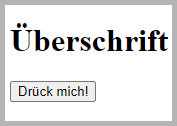
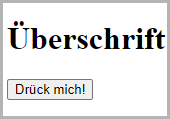
corrected groupe chapters

Changed region(s): [[0.0, 0.0252, 1.0, 0.9832]]

diff --git a/chapters/implementierung/ldehner.tex b/chapters/implementierung/ldehner.tex
@@ -4,7 +4,7 @@
 In diesem Kapitel wird die Implementierung des Frontends von \textit{Refundable} erläutert. Dabei wird als Erstes die Vorbereitung im \autoref{chapter:implementierung-frontend-vorbereitung} erklärt. Danach werden die einzelnen Komponenten im \autoref{chapter:implementierung-frontend-komponenten} der Website aufgezeigt und vorgeführt.
 \subsection{Vorbereitung}
 \label{chapter:implementierung-frontend-vorbereitung}
-Wie im \autoref{chapter:study-frontend} und \autoref{chapter:study-datenschnittstelle} festgelegt wird im Frontend \textit{Bootstrap} in Verbindung mit \textit{VueJS} verwendet. Zu aller erst muss daher \textit{VueJS} auf dem Computer, auf dem das Projekt erstellt wird, installiert werden. Dies geschieht auf Windows über den Node Packet Manager (NPM) \cite{vue-install}. Der Befehl um \textit{VueJS} zu installieren schaut wie folgt aus:
+Wie im \autoref{chapter:study-frontend} und \autoref{chapter:study-datenschnittstelle} festgelegt wird im Frontend \textit{Bootstrap} in Verbindung mit \textit{VueJS} verwendet. Zu aller erst muss daher \textit{VueJS} auf dem Computer, auf dem das Projekt erstellt wird, installiert werden. Dies geschieht auf Windows über den Node Packet Manager (NPM) \cite{vue-install}. Der Befehl um \textit{VueJS} zu installieren sieht wie folgt aus:
 \begin{code}{bash}
 	npm install -g @vue/cli
 \end{code}
@@ -55,7 +55,7 @@ Diese dienen dazu, dass der Hauptcontainer, als auch die Hauptreihe der Website,
 \newpage
 \subsubsection{Login-Seite}
 \label{chapter:implementierung-frontend-komponenten-login}
-Die Login-Seite sollte sehr schlicht gehalten werden und sofort verstamden werden können. Da das Tool \textit{Refundable} nur von Lehrern des TGMs verwendet werden soll, wurde in der Loginmaske die E-Mail-Endung \enquote{@tgm.ac.at} vordefiniert. Außerdem soll dem Aufrufer der Website sofort klar machen, worum es sich bei dieser Website handelt und haben daher den Projektnamen \textit{Refundable}, als auch unseren Slogan auf der Seite platziert. Des weiteren war aufgrund der DSGVO eine Meldung zu realisieren, die den Benutzer darüber informiert, dass Cookies verwendet werden. Falls diese Meldung nicht akzeptiert wird und man sich anzumelden möchte, wird eine Fehlermeldung dargestellt. Diese Meldung wird jedoch dynamisch mit \textit{VueJS} erstellt und nicht direkt mittels \textit{Bootstrap}. In der Umsetzung schaut die Login-Seite wie folgt aus (\autoref{fig:login}):
+Die Login-Seite sollte sehr schlicht gehalten werden und sofort verstanden werden können. Da das Tool \textit{Refundable} nur von Lehrern des TGMs verwendet werden soll, wurde in der Login-Maske die E-Mail-Endung \enquote{@tgm.ac.at} vordefiniert. Außerdem soll dem Aufrufer der Website sofort klar sein, worum es sich bei dieser Website handelt und haben daher den Projektnamen \textit{Refundable}, als auch unseren Slogan auf der Seite platziert. Des weiteren war aufgrund der DSGVO eine Meldung zu realisieren, die den Benutzer darüber informiert, dass Cookies verwendet werden. Falls diese Meldung nicht akzeptiert wird und man sich anmelden möchte, wird eine Fehlermeldung dargestellt. Diese Meldung wird jedoch dynamisch mit \textit{VueJS} erstellt und nicht direkt mittels \textit{Bootstrap}. In der Umsetzung sieht die Login-Seite wie folgt aus (\autoref{fig:login}):
 \begin{figure}[H]
 	\centering
 	\includegraphics[width=1\linewidth]{images/ldehner_implementierung/login}
@@ -234,7 +234,7 @@ Die Meldung, dass Cookies benutzt werden, sollte schlicht und einfach sein. Es w
 \newpage
 \subsubsection{Startseite}
 \label{chapter:implementierung-frontend-komponenten-startseite}
-Die Startseite sollte so intuitiv und übersichtlich wie möglich sein. Deswegen wurde ein \enquote{Drei Spalten Design} umgesetzt. In der ersten Spalte befinden sich alle wichtigen Funktionen - drei Knöpfe, zum Erstellen von neuen Anträgen, um alle aktiven Anträge anzuzeigen und um alle Anträge zu betrachten, die man jemals gestellt hat. In der 2. Spalte befindet sich das Logo, eine Illustration für das Dashboard und ein Knopf zum Ausloggen. Falls man sich mit einm Administratorkonto anmeldet, wird hier ebenfalls ein Knopf, zum Wechseln in die Administratoransicht angezeigt. In der dritten Spalte werden Neuigkeiten zu den Anträgen des Benutzers angezeigt. Klickt man auf eine Neuigkeit, wird man zu dem jeweiligen Antrag weitergeleitet. \autoref{fig:dashboard} zeigt die Umsetzung der Startseite.
+Die Startseite sollte so intuitiv und übersichtlich wie möglich sein. Deswegen wurde ein \enquote{Drei Spalten Design} umgesetzt. In der ersten Spalte befinden sich alle wichtigen Funktionen - drei Knöpfe, zum Erstellen von neuen Anträgen, um alle aktiven Anträge anzuzeigen und um alle Anträge zu betrachten, die jemals gestellt wurden. In der 2. Spalte befindet sich das Logo, eine Illustration für das Dashboard und ein Knopf zum Ausloggen. Falls man sich mit einem Administratorkonto anmeldet, wird hier ebenfalls ein Knopf, zum Wechseln in die Administratoransicht angezeigt. In der dritten Spalte werden Neuigkeiten zu den Anträgen des Benutzers angezeigt. Klickt man auf eine Neuigkeit, wird man zu dem jeweiligen Antrag weitergeleitet. \autoref{fig:dashboard} zeigt die Umsetzung der Startseite.
 \begin{figure}[H]
 	\centering
 	\includegraphics[width=1\linewidth]{images/ldehner_implementierung/dashboard}
@@ -371,7 +371,7 @@ Wie bereits erwähnt, ist die mobile Ansicht sehr schlicht gehalten, damit sie n
 	\label{list:startmobile} ~\\
 \paragraph{Neuigkeiten-Element}
 ~\\
-Die Neuigkeiten-Elemente sind mit einer Illustration bestückt, die den momentanen Status des jeweiligen Antrags beschreiben soll. Außerdem wird ein Titel der Neuigkeit mitgegeben, die zum Beispiel \enquote{Antrag X abgelehnt} heißen könnte. Etwas mehr Details werden noch in einem Beschreibungsfeld mitgegeben, das wegen der Übersichtlichkeit nur auf Desktopgeräten sichtbar ist.
+Die Neuigkeiten-Elemente sind mit einer Illustration bestückt, die den momentanen Status des jeweiligen Antrags beschreiben soll. Außerdem wird ein Titel der Neuigkeit mitgegeben, die zum Beispiel \enquote{Antrag X abgelehnt} heißen könnte. Etwas mehr Details werden noch in einem Beschreibungsfeld mitgegeben, das in Hinblick auf die Übersichtlichkeit nur auf Desktopgeräten sichtbar ist.
 \begin{code}{html}
 	<b-row align-v="center">
 	<b-col cols="2">
@@ -591,7 +591,7 @@ Das Formular der Reisekostenabrechnung fordert sehr viele verschiedene Werte von
 In \autoref{fig:reiserechnungsite} wurden Elemente verwendet, die uns im Gegensatz zu normalen Eingaben nicht bekannt sind, einerseits Tabellen, andererseits die Dateiauswahl.
 \paragraph{Dateiauswahl}
 ~\\
-Wie auch bei den anderen Elementen der Formulare, wie zum Beispiel bei dem \textit{Timepicker}, hat \textit{Bootstrap} ein veorgefertigtes Element für die Dateiauswahl. 
+Wie auch bei den anderen Elementen der Formulare, wie zum Beispiel bei dem \textit{Timepicker}, hat \textit{Bootstrap} ein vorgefertigtes Element für die Dateiauswahl. 
 \begin{code}{html}
 	<!-- Belege Input -->
 	<b-form-group
@@ -676,7 +676,7 @@ Um die oben genannten Daten in einer geordneten Liste zu sehen, kann der Lehrer 
 \end{figure}
 \paragraph{Such-Funktion}
 ~\\
-Die Erstellung der Suchfunktion wurde wieder essentiell von den \textit{BootstrapVue} Komponenten unterstützt. Es mussten eine Eingabegruppe erstellt werden, die ein Eingabefeld mit dem Typ \textit{\enquote{search}} hat. Um eine Eingabe schneller zu löschen wurde noch ein Knopf hinzugefügt, der erscheint, sobald man etwas eintippt. Durch die gute Integration von \textit{Bootstrap} in \textit{VueJS} war die Implementierung der Suchfunktion für die Tabelle reibungslos. Die Vergabe der Funktionalität der Such-Funktion wurde im Backend/Frontend Teil umgesetzt.
+Die Erstellung der Suchfunktion wurde wieder essentiell von den \textit{BootstrapVue} Komponenten unterstützt. Es mussten eine Eingabegruppe erstellt werden, die ein Eingabefeld mit dem Typ \textit{\enquote{search}} hat. Um eine Eingabe schneller zu löschen wurde noch ein Knopf hinzugefügt, dieser erscheint, sobald man etwas eintippt. Durch die gute Integration von \textit{Bootstrap} in \textit{VueJS} war die Implementierung der Suchfunktion für die Tabelle reibungslos. Die Vergabe der Funktionalität der Such-Funktion wurde im Backend/Frontend Teil umgesetzt.
 \begin{code}{html}
 	<!-- Such Element -->
     <b-row align-h="center" style="margin-top: 1rem; margin-bottom: 2rem">
@@ -709,9 +709,9 @@ Die Erstellung der Suchfunktion wurde wieder essentiell von den \textit{Bootstra
 \end{code}
 \captionof{listing}{Anträge Suchfunktion Code}
 	\label{list:antragsearchcode} ~\\
-\paragraph{Filterbare Tabelle}
+\paragraph{Filtrierbare Tabelle}
 ~\\
-Die Aktivierung der filterbaren Tabelle ist mittels \textit{BootstrapVue} möglich. Dazu wurden folgende drei Festlegungen im \textit{\enquote{b-table}} Element hinzufügen:
+Die Aktivierung der filtrierbaren Tabelle ist mittels \textit{BootstrapVue} möglich. Dazu wurden folgende drei Festlegungen im \textit{\enquote{b-table}} Element hinzugefügt:
 \begin{code}{html}
 	<b-table
 		...
@@ -836,7 +836,7 @@ Ein Schritt der Fortschrittsanzeige besteht aus einem \enquote{div}, in dem sich
 
 \paragraph{Dokumente anzeigen}
 ~\\
-Die verschiedenen Dokumente, die zu einem gewissen Antrag angehören, werden in einer Tabelle gelistet. Falls der Nutzer auf den \enquote{Bearbeitung öffnen} Knopf drückt, wird der Tabelle eine weitere Reihe hinzugefügt, die alle Informationen zu dem jeweiligen Antrag beinhaltet. Mittels \textit{VueJS} wurden die bestehenden Formulare (hier als Beispiel einen Schulveranstaltungsantrag), in der Tabelle eingebunden und die Eingabefelder über die Datenschnittstelle (\autoref{chapter:implementierung-datenschnittstelle}) mit Daten befüllt.
+Die verschiedenen Dokumente, die zu einem gewissen Antrag gehören, werden in einer Tabelle gelistet. Falls der Nutzer auf den \enquote{Bearbeitung öffnen} Knopf drückt, wird der Tabelle eine weitere Reihe hinzugefügt, die alle Informationen zu dem jeweiligen Antrag beinhaltet. Mittels \textit{VueJS} wurden die bestehenden Formulare (hier als Beispiel ein Schulveranstaltungsantrag), in der Tabelle eingebunden und die Eingabefelder über die Datenschnittstelle (\autoref{chapter:implementierung-datenschnittstelle}) mit Daten befüllt.
 \begin{code}{html}
 	<template #row-details="row">
         <b-card>
@@ -920,7 +920,7 @@ Die farbig hinterlegten Elemente heißen \enquote{badges} und können wie folgt 
 \newpage
 \paragraph{Administrator Antragsansicht}
 ~\\
-Die Administrator Antragsansicht schaut gleich aus, wie die Ansicht der normalen Benutzer - mit einem Unterschied. Die Administratoren haben nicht die Funktionen \enquote{Speichern} und \enquote{Antrag schließen}, sondern \enquote{Antrag annehmen} und \enquote{Antrag ablehnen}. Falls der Antrag abgelehnt wird, taucht wieder eine Sicherheitsmeldung auf. Hier muss der Administrator eine Begründung, für die Ablehnung angeben. 
+Die Administrator Antragsansicht sieht gleich aus, wie die Ansicht der normalen Benutzer - mit einem Unterschied. Die Administratoren haben nicht die Funktionen \enquote{Speichern} und \enquote{Antrag schließen}, sondern \enquote{Antrag annehmen} und \enquote{Antrag ablehnen}. Falls der Antrag abgelehnt wird, taucht wieder eine Sicherheitsmeldung auf. Hier muss der Administrator eine Begründung, für die Ablehnung angeben. 
 \begin{figure}[H]
 	\centering
 	\includegraphics[width=0.6\linewidth]{images/ldehner_implementierung/admin_antrag_schiessen}
@@ -971,9 +971,9 @@ Im Code wird dieses Eingabefeld im \enquote{Modal} wie folgt erstellt:
 \captionof{listing}{Antrag ablehnen Code}
 	\label{list:badgebsp} ~\\
 \newpage
-\subsubsection{Seite nicht Gefunden}
+\subsubsection{Seite nicht gefunden}
 \label{chapter:implementierung-frontend-komponenten-notfound}
-Falls der momentane Nutzer von \textit{Refundable} eine ungültige URL aufrufen möchte, wird dieser sofort informiert, dass er etwas falsch gemacht hat. Desweiteren wird dem Nutzer direkt eine Lösung vorgeschlaen, wie er dieses Problem beheben kann. Um dem Nutzer zu visualisieren, dass der \enquote{Website} Knopf die richtige Wahl ist, haben wir ihn in einem Grün hervorgehoben. Außerdem wird dem Aufrufer, der Seite mit schimmernden grauen Boxen, die einen \enquote{Lade-Zustand} visualisieren sollen gezeigt, dass die Seite, die der Nutzer aufrufen wollte nicht richtig lädt.
+Falls der momentane Nutzer von \textit{Refundable} eine ungültige URL aufrufen möchte, wird dieser sofort informiert, dass er etwas falsch gemacht hat. Desweiteren wird dem Nutzer direkt eine Lösung vorgeschlagen, wie er dieses Problem beheben kann. Um dem Nutzer zu visualisieren, dass der \enquote{Website} Knopf die richtige Wahl ist, haben wir ihn in einem Grün hervorgehoben. Außerdem wird dem Aufrufer, der Seite mit schimmernden grauen Boxen, die einen \enquote{Lade-Zustand} visualisieren sollen gezeigt, dass die Seite, die der Nutzer aufrufen wollte nicht richtig lädt.
 \begin{figure}[H]
 	\centering
 	\includegraphics[width=1\linewidth]{images/ldehner_implementierung/notfound}

diff --git a/chapters/studie/ldehner.tex b/chapters/studie/ldehner.tex
@@ -56,7 +56,7 @@
 		Wenn man die Datei nun im Browser öffnet, sieht dies wie folgt aus:
 		\begin{figure}[H]
 			\centering
-			\includegraphics[width=0.3\linewidth]{images/ldehner_study/html1}
+			\includegraphics[width=0.2\linewidth]{images/ldehner_study/html1}
 			\caption[HTML Beispielseite]{Beispiel einer HTML Seite mit einer Überschrift und einem Button}
 			\label{fig:htmlbsp}
 		\end{figure}
@@ -165,7 +165,7 @@
 	Zum Vergleich werden vier sehr verbreitete und geschätzte Frameworks herangezogen:
 		\subsubsection{Bootstrap}
 		\label{chapter:study-frontend-frameworks-bootstrap}
-		Bootstrap ist ein Framework, welches am bekanntesten ist und am meisten verwendet wird \cite{introduction-bootstrap, learning-bootstrap}. Das von Twitter entwickelte Framework hat in der aktuellen Version 4.5 viele verschiedene Komponenten, die optimal für erfahrene Entwickler, aber auch für Anfänger geeignet sind. In der Dokumentation von Bootstrap gibt es einige Templates und sehr viel gut dokumentierten Beispiel Code\cite{introduction-bootstrap}. Bootstrap kann über einen Paketmanager, ein CDN, oder als heruntergeladene Dateien zur HTML Datei hinzugefügt werden \cite{bootstrap-docu}. Durch diesen großen Verwendungsgrad gibt es viele Erweiterungen und zahlreiche Plattformen auf denen man sich informieren kann, falls man Probleme bei der Entwicklung der Website hat \cite{learning-bootstrap}. Bootstrap bietet, mit seinem überschaubaren Grid-System, eine gute Umsetzung für die Responsivität der Seite, damit sie auf allen möglichen Endgeräten perfekt ausschaut.
+		Bootstrap ist ein Framework, welches am bekanntesten ist und am meisten verwendet wird \cite{introduction-bootstrap, learning-bootstrap}. Das von Twitter entwickelte Framework hat in der aktuellen Version 4.5 viele verschiedene Komponenten, die optimal für erfahrene Entwickler, aber auch für Anfänger geeignet sind. In der Dokumentation von Bootstrap gibt es einige Templates und sehr viel gut dokumentierten Beispiel Code\cite{introduction-bootstrap}. Bootstrap kann über einen Paketmanager, ein CDN, oder als heruntergeladene Datei zur HTML Datei hinzugefügt werden \cite{bootstrap-docu}. Durch diesen großen Verwendungsgrad gibt es viele Erweiterungen und zahlreiche Plattformen auf denen man sich informieren kann, falls man Probleme bei der Entwicklung der Website hat \cite{learning-bootstrap}. Bootstrap bietet, mit seinem überschaubaren Grid-System, eine gute Umsetzung für die Responsivität der Seite, damit sie auf allen möglichen Endgeräten perfekt aussieht.
 		\paragraph{Pro / Contra}
 		\subparagraph{Pro}
 		\begin{itemize}
@@ -182,7 +182,7 @@
 	\label{list:bootstrappro}
 		\subparagraph{Contra}
 		\begin{itemize}
-			\item Viele Websites schauen gleich aus
+			\item Viele Websites sehen gleich aus
 			\item Komplexer zu erlernen
 			\item Kein schönes Standarddesign
 		\end{itemize}
@@ -191,7 +191,7 @@
 	
 		\subsubsection{Materialize}
 		\label{chapter:study-frontend-frameworks-materialize}
-		Materialize ist wie Bootstrap ein intuitives HTML, CSS und JS Framework \cite{materialize-intro}. Es ist Bootstrap sogar sehr ähnlich, aber einfacher aufgebaut. Dadurch hat es auch nicht so viele verschiedene Komponenten und nicht so viel Beispiel Code wie Bootstrap. Materialize legt vor allem Wert auf das Design, welches von Google's Material Design abstammt. Ein weiterer großer Punkt ist Usability und User Experience, welche unter anderem Hand in Hand mit dem Design gehen. Um die User Experience möglichst hoch zu halten, arbeitet Materialize viel mit Animationen. Materialize kann ebenfalls über ein \Gls{cdn}, Paketmanager oder als Datei in das Projekt eingebunden werden. Falls man das Design verändern will, stellt Materialize ebenfalls noch eine SASS Version zur Verfügung \cite{WebDocMaterialize}.
+		Materialize ist wie Bootstrap ein intuitives HTML, CSS und JS Framework \cite{materialize-intro}. Es ist Bootstrap sogar sehr ähnlich, aber simpler aufgebaut. Dadurch hat es auch nicht so viele verschiedene Komponenten und nicht so viel Beispiel Code wie Bootstrap. Materialize legt vor allem Wert auf das Design, welches von Google's Material Design abstammt. Ein weiterer großer Punkt ist Usability und User Experience, welche unter anderem Hand in Hand mit dem Design gehen. Um die User Experience möglichst hoch zu halten, arbeitet Materialize viel mit Animationen. Materialize kann ebenfalls über ein \Gls{cdn}, Paketmanager oder als Datei in das Projekt eingebunden werden. Falls man das Design verändern will, stellt Materialize ebenfalls noch eine SASS Version zur Verfügung \cite{WebDocMaterialize}.
 		\paragraph{Pro / Contra}
 		\subparagraph{Pro}
 		\begin{itemize}
@@ -208,7 +208,7 @@
 		\subparagraph{Contra}
 		\begin{itemize}
 			\item Einige Probleme mit VueJS
-			\item Nicht so viele Erkundungsmöglichkeiten
+			\item Weniger Erkundungsmöglichkeiten
 			\item Beispielcode ist oft unvollständig
 		\end{itemize}
 	\captionof{listing}{Materialize Contra}
@@ -243,7 +243,7 @@
 	\subsection{Vergleich}
 	\label{chapter:study-frontend-vergleich}
 	Der Vergleich der Frameworks setzt sich aus dem Umfang, den Erweiterungen, dem Aussehen, der Leichtigkeit im Bezug auf das Erlernen des Frameworks, dem Umfang der Dokumentation, der Kompatibilität mit VueJS und unserer Erfahrung, mit dem jeweiligen Framework zusammen.\\
-	Die Punkte (0-9) setzen sich immer in der Relation mit den anderen Frameworks zusammen, wobei 9 die beste, also maximale Punktzahl ist. Die Basis 0 ist in diesem Vergleich mit den Funktionen und Aufwand von vanilla CSS gleichzusetzen. Alle dafür benötigten Informationen wurden von der jeweiligen Dokumentationsseite bezogen.
+	Die Punkte (0-9) setzen sich immer in der Relation mit den anderen Frameworks zusammen, wobei 9 die Beste, also maximale Punktzahl ist. Die Basis 0 ist in diesem Vergleich mit den Funktionen und Aufwand von Vanilla CSS gleichzusetzen. Alle dafür benötigten Informationen wurden von der jeweiligen Dokumentationsseite bezogen.
 	~\\
 	\captionof{table}[Vergleich HTML Frameworks]{Vergleich zwischen Bootstrap, Materialize und Foundation}\label{tbl:comparison}
 	\begin{center}
@@ -265,13 +265,13 @@
 	\end{center}
 \subsubsection{Umfang}
 \label{chapter:study-frontend-vergleich-umfang}
-Die Punktevergabe des Umfangs setzt sich zusammen aus der Anzahl, der Komponenten und und Hilfsklassen. Bootstrap und Materialize haben in etwa die selbe Anzahl (53 \& 55) und bekommen daher die Maximalpunktzahl\cite{bootstrap-docu,WebDocMaterialize,foundation-webdocu}. Foundation hat hingegen deutlich weniger Komponenten (41), als die anderen zwei Frameworks und hat daher nur 7 Punkte bekommen.
+Die Punktevergabe des Umfangs setzt sich zusammen aus der Anzahl, der Komponenten und Hilfsklassen. Bootstrap und Materialize haben in etwa die selbe Anzahl (53 \& 55) und bekommen daher die Maximalpunktzahl \cite{bootstrap-docu,WebDocMaterialize,foundation-webdocu}. Foundation hat hingegen deutlich weniger Komponenten (41), als die anderen zwei Frameworks und hat daher nur 7 Punkte bekommen.
 \subsubsection{Erweiterungen}
 \label{chapter:study-frontend-vergleich-erweiterungen}
 Bootstrap hat durch das langjährige Bestehen und durch die große Reichweite unzähliger Erweiterungen, die Schwächen, wie zum Beispiel das Standarddesign wieder ausmerzen. Deswegen hat Bootstrap hier auch die volle Punkteanzahl bekommen \cite{introduction-bootstrap}. Materialize hingegen, hat nur kostenpflichtige, offizielle Plugins, deswegen hat dieses Framework nur 3 Punkte bekommen. Foundation hingegen, hat wiederum eine ausreichende Auswahl an Plugins, die sogar in der Dokumentation verlinkt sind \cite{foundation-webdocu}. 
 \subsubsection{Aussehen}
 \label{chapter:study-frontend-vergleich-aussehen}
-Bei dem Aussehen des Standard-Designs gewinnt klar und deutlich Materialize, da es die ansprechendste Darstellung mit einem schönen Design bietet \cite{WebDocMaterialize}. Bootstrap und Foundation legen mehr Wert auf die Funktionalität des Frameworks und legen weniger Wert auf das Aussehen \cite{bootstrap-docu, foundation-webdocu}. Dies merkt man dadurch, dass die Elemente optisch nur minimal von den HTML-Standardelementen abweichen. Materialize hat hingegen ein komplett neues und modernes Design aufgezogen.
+Bei dem Aussehen des Standard-Designs gewinnt klar und deutlich Materialize, da es die ansprechendste Darstellung mit einem schönen Design bietet \cite{WebDocMaterialize}. Bootstrap und Foundation legen mehr Wert auf die Funktionalität des Frameworks und legen weniger Wert auf das Aussehen \cite{bootstrap-docu, foundation-webdocu}. Dies merkt man daran, dass die Elemente optisch nur minimal von den HTML-Standardelementen abweichen. Materialize hat hingegen ein komplett neues und modernes Design aufgezogen.
 \subsubsection{Leichtigkeit}
 \label{chapter:study-frontend-vergleich-leichtigkeit}
 Aus eigener Erfahrung können wir sagen, dass Materialize wirklich einfach zu erlernen ist \cite{WebDocMaterialize}. Bei einem groben Einlernen in Foundation hat das Team festgestellt, dass es dem Aufbau von Materialize sehr ähnelt. Bootstrap hingegen sah auf den ersten Blick sehr kompliziert aus und war am Anfang sehr schwer zu verstehen. Nach ein paar Stunden Einlernen war schon ein sehr guter Workflow vorhanden.
@@ -285,9 +285,9 @@ Wie in \autoref{chapter:study-datenschnittstelle} erklärt wird, werden wir als 
 
 \subsubsection{Erfahrung}
 \label{chapter:study-frontend-vergleich-erfahrung}
-Das Frontend-Team hat bis jetzt hauptsächlich Erfahrung mit Materialize gemacht. Bootstrap wurde in der Schule kurz angeschnitten, aber im privaten Umfeld etwas vertieft. Mit Foundation hingegen wurde noch keine Erfahrung gemacht.
+Das Frontend-Team hat bis jetzt hauptsächlich Erfahrung mit Materialize gemacht. Bootstrap wurde in der Schule kurz angeschnitten, aber im privaten Umfeld etwas vertieft. Mit Foundation hingegen wurde noch keine Erfahrung gesammelt.
 
 \subsubsection{Fazit}
 \label{chapter:study-frontend-vergleich-fazit}
-Nach dem Vergleich, der in dieser Arbeit durchgeführt wurde, ist es leicht, die optimale Auswahl der Umsetzung für Refundable zu treffen. Eine Entwicklung ohne ein Framework kommt auf Basis der Analyse nicht zu Stande, da der Aufwand für die Umsetzung, wesentlich höher wäre. Wir haben uns schließlich für Bootstrap entschieden, da es eindeutig im Vergleich am besten abschneidet und auch am Besten mit VueJS harmoniert.
+Nach dem Vergleich, der in dieser Arbeit durchgeführt wurde, ist es leicht, die optimale Auswahl der Umsetzung für Refundable zu treffen. Eine Entwicklung ohne ein Framework kommt auf Basis der Analyse nicht zu Stande, da der Aufwand für die Umsetzung, wesentlich höher wäre. Wir haben uns schließlich für Bootstrap entschieden, da es im Vergleich eindeutig am besten abschneidet und auch am Besten mit VueJS harmoniert.
 

diff --git a/chapters/konzept/ldehner.tex b/chapters/konzept/ldehner.tex
@@ -4,13 +4,13 @@
 In diesem Kapitel wird die Erstellung eines Konzepts für das Frontend erläutert. Dabei müssen unter anderem Faktoren, wie die Zielgruppe, unsere Lehrerschaft, beachtet werden. Im folgenden Kapitel werden die theoretischen Hintergründe des Konzeptes überlegt, erörtert und im Anschluss werden erste Entwürfe mittels Mockups erstellt. 
 \subsection{Theoretische Konzeption}
 \label{chapter:konzept-frontend-theorie}
-Da die Zielgruppe \enquote{Lehrer} nicht gleichaltrig ist, sondern die darin enthaltenen Menschen ein Alter von 25 bis 65 Jahren haben, gibt es keine Literatur zur \enquote{perfekten Usability für Lehrpersonal}. Daher richten wir uns nach den Büchern \enquote{Don't Make Me Think: A Common Sense Approche to Web Usability} von Steve Krug und  \enquote{101 UX Principles} von Will Grant. Um eine gute Usability für die Lehrer des TGMs zu gewährleisten, werden wir den Prozess der Entwicklung streng in Kontakt zu Lehrern begleiten und das Produkt auch mit Technik unvertrauten Menschen testen.  
+Da die Zielgruppe \enquote{Lehrer} nicht gleichaltrig ist, sondern die darin enthaltenen Menschen ein Alter von 25 bis 65 Jahren haben, gibt es keine Literatur zur \enquote{perfekten Usability für Lehrpersonal}. Daher richten wir uns nach den Büchern \enquote{Don't Make Me Think: A Common Sense Approche to Web Usability} von Steve Krug und  \enquote{101 UX Principles} von Will Grant. Um eine gute Usability für die Lehrer des TGMs zu gewährleisten, werden wir den Prozess der Entwicklung streng in Kontakt zu Lehrern begleiten und das Produkt auch mit Technik nicht versierten Anwendern testen.  
 \newpage
 \subsection{Visuelle Konzeption}
 \label{chapter:konzept-frontend-visuell}
 \paragraph{Login-Seite}
 ~\\
-Wie man auf der \autoref{fig:mockupLogin} sehen kann, ist die Login-Seite sehr schlicht gehalten. Neben dem Schriftzug \enquote{Refundable} soll das Formular zum Einloggen dargestellt sein. Da die Plattform nur für das Personal des TGMs zugänglich sein soll, wird bei der Eingabe der E-Mail Adresse automatisch eine \enquote{@tgm.ac.at} Endung angefügt. Wird der \enquote{Passwort vergessen?} Link betätigt, soll automatisch auf die Seite des TGMs verwiesen werden, da die Daten über LDAP, der Lehrer abgerufen wird. Bei der Eingabe von validen Daten und dem Betätigen des \enquote{Anmelden} Buttons wird der Benutzer auf die Startseite weitergeleitet.
+Wie man auf der \autoref{fig:mockupLogin} erkennen kann, ist die Login-Seite sehr schlicht gehalten. Neben dem Schriftzug \enquote{Refundable} soll das Formular zum Einloggen dargestellt sein. Da die Plattform nur für das Personal des TGMs zugänglich sein soll, wird bei der Eingabe der E-Mail Adresse automatisch eine \enquote{@tgm.ac.at} Endung angefügt. Wird der \enquote{Passwort vergessen?} Link betätigt, soll automatisch auf die Seite des TGMs verwiesen werden, da die Daten über LDAP, der Lehrer abgerufen wird. Bei der Eingabe von validen Daten und dem Betätigen des \enquote{Anmelden} Buttons wird der Benutzer auf die Startseite weitergeleitet.
 \begin{figure}[H]
 	\centering
 	\includegraphics[width=1\linewidth]{images/ldehner_konzept/Mockup-Startseite}
@@ -43,7 +43,7 @@ Zur Veranschaulichung der oben genannten Prozesse ist in \autoref{fig:ucStart} e
 \end{figure}
 \paragraph{Neuer Antrag}
 ~\\
-Nachdem man auf den Button zum Erstellen eines neues Antrages gedrückt hat, soll man zu einer Auswahl kommen, in der man auswählen kann, welche Art von Antrag man erstellen möchte (\autoref{fig:mockupNeu}). Danach sollen je nach Antragsart, wie man auf der \autoref{fig:mockupErstellen} sieht, Eingabefelder erscheinen, in denen die benötigten Daten zu dem Antrag eingetragen werden sollen.
+Nachdem man auf den Button zum Erstellen eines neuen Antrages gedrückt hat, soll man zu einer Auswahl kommen, in der man auswählen kann, welche Art von Antrag man erstellen möchte (\autoref{fig:mockupNeu}). Danach sollen je nach Antragsart, wie man auf der \autoref{fig:mockupErstellen} sieht, Eingabefelder erscheinen, in denen die benötigten Daten zu dem Antrag eingetragen werden sollen.
 \begin{figure}[H]
 	\centering
 	\includegraphics[width=1\linewidth]{images/ldehner_konzept/Mockup-Neuer-Antrag}
@@ -64,9 +64,9 @@ Zur Veranschaulichung der oben genannten Prozesse ist in \autoref{fig:ucNew} ein
 	\label{fig:ucNew}
 \end{figure}
 \newpage
-\paragraph{Ansicht Alle Anträge}
+\paragraph{Ansicht alle Anträge}
 ~\\
-Auf der \textit{Alle Anträge} Seite, sieht man alle Anträge, mit denen man in Verbindung steht. Akzeptierte, abgelehnte, als auch Anträge, die noch in Bearbeitung sind, werden hier angezeigt und können über das Menü auf der rechten Seite geöffnet werden (\autoref{fig:mockupAlle}).
+Auf der \textit{alle Anträge} Seite, sieht man alle Anträge, mit denen man in Verbindung steht. Akzeptierte, abgelehnte, als auch Anträge, die noch in Bearbeitung sind, werden hier angezeigt und können über das Menü auf der rechten Seite geöffnet werden (\autoref{fig:mockupAlle}).
 \begin{figure}[H]
 	\centering
 	\includegraphics[width=1\linewidth]{images/ldehner_konzept/Mockup-Alle-Anträge}
@@ -81,9 +81,9 @@ Zur Veranschaulichung der oben genannten Prozesse ist in \autoref{fig:ucAll} ein
 	\label{fig:ucAll}
 \end{figure}
 \newpage
-\paragraph{Ansicht Aktive Anträge}
+\paragraph{Ansicht aktive Anträge}
 ~\\
-Auf der \enquote{Aktive Anträge} Seite, sieht man alle Anträge, die aktiv sind (also in Bearbeitung oder vorerst abgelehnt) und mit denen man in Verbindung steht. Diese können über das Menü auf der rechten Seite geöffnet werden (\autoref{fig:mockupAktive}).
+Auf der \textit{aktive Anträge} Seite, sieht man alle Anträge, die aktiv sind (also in Bearbeitung oder vorerst abgelehnt) und mit denen man in Verbindung steht. Diese können über das Menü auf der rechten Seite geöffnet werden (\autoref{fig:mockupAktive}).
 \begin{figure}[H]
 	\centering
 	\includegraphics[width=1\linewidth]{images/ldehner_konzept/Mockup-Aktive-Anträge}
@@ -100,7 +100,7 @@ Zur Veranschaulichung der oben genannten Prozesse ist in \autoref{fig:ucAktiv} e
 \newpage
 \paragraph{Administrator Ansicht}
 ~\\
-Auf der Administrator Seite können bestimmte Nutzer (wie AV, Rechnungsstelle, etc.) Anträge verwalten. Wie man auf der \autoref{fig:mockupAdmin} sehen kann, werden dem Benutzer einige wichtige Daten in einer durchsuchbaren und filtrierbaren Tabelle angezeigt. Um den Antrag anzunehmen oder abzulehnen, kann der \enquote{Öffnen} Knopf auf der rechten Seite der Tabelle betätigt werden.
+Auf der \textit{Administrator} Seite können bestimmte Nutzer (wie AV, Rechnungsstelle, etc.) Anträge verwalten. Wie man auf der \autoref{fig:mockupAdmin} sehen kann, werden dem Benutzer einige wichtige Daten in einer durchsuchbaren und filtrierbaren Tabelle angezeigt. Um den Antrag anzunehmen oder abzulehnen, kann der \enquote{Öffnen} \textit{Button} auf der rechten Seite der Tabelle betätigt werden.
 \begin{figure}[H]
 	\centering
 	\includegraphics[width=1\linewidth]{images/ldehner_konzept/Mockup-Admin}

diff --git a/chapters/retrospektive.tex b/chapters/retrospektive.tex
@@ -7,30 +7,40 @@ Durch diese Situation wurde die Entwicklung der Datenschnittstelle deutlich ersc
 
 Durch herausragende Zusammenarbeit gegen Ende des Projekts konnten jedoch alle Herausforderungen bewältigt werden.
 \section{Erkenntnisse}
-Die Kommunikation ist ein sehr essenzieller Teil eines Projektes, welcher auf gar keinen Fall vernachlässigt werden darf.
-
+Die Kommunikation ist ein sehr essenzieller Teil eines Projektes, welcher auf gar keinen Fall vernachlässigt werden darf. Des weiteren hat das Projektteam gelernt, sich nicht durch Rückschritte frustrieren zu lassen, sondern umso mehr daran zu arbeiten, dass das Endprodukt funktionsfähig ist.
+\newpage
 \section{Webdesign}
-%@lini, da kannst du dein Zeugs schreiben
+Alle erforderlichen Seiten des Frontends wurden erfolgreich implementiert. Die Website wurde mittels \textit{Bootstrap}-Komponenten befüllt, welche im Nachhinein an das Design von \textit{Refundable} angepasst wurden. Alle benötigten Formulare wurden in \textit{HTML}-Form kreiert und sind für den Nutzer mit ausreichend Informationen und Hinweisen bestückt. Auch die Übersicht der normalen, als auch administrativen Nutzer wurde vollständig erstellt.\\
+~\\
+Jedoch gibt es noch einige Dinge, die zeitbedingt nicht verbessert worden sind. Folgende Liste zeigt diese noch nicht implementierten Verbesserungsmöglichkeiten, die in Zukunft noch umgesetzt werden können auf:
+\begin{itemize}
+	\item Das Design der \textit{Login-} und \textit{Startseite} auf den restlichen Seiten stärker fortführen
+	\item Die Darstellung auf mobilen Geräten verbessern
+	\item Das Reisekostenformular vereinfachen und verschönern
+	\item Zusätzliche Meldungen, die den Nutzer unterstützen
+	\item Ein \textit{Tutorial}, das beim erstmaligen aufrufen der Website vorgeschlagen wird
+\end{itemize}
+\captionof{listing}[Auflistung von Verbesserungsmöglichkeiten]{Auflistungen von Verbesserungsmöglichkeiten}
 
 \newpage
 
 \section{Backend und Infrastruktur}
 
-Sowohl das Backend, als auch die Infrastruktur, wurden komplett implementiert. Die Hauptfunktionalität wurde fertig programmiert und in das System und in die Betriebsumgebung eingepasst. Zusätzlich wurde auch die Infrastruktur entworfen und dynamisch deployable designt, sodass dieses einfach aufbaubar und steuerbar ist. Die REST-Schnittstelle bereitet Daten entsprechend auf und stellt sie auf Anfrage eines Clients zur Verfügung. Auch die Schnittstellenherausforderungen im Backend mit Diensten und Protokollen wie LDAP oder Untis wurden gelöst und auf eine Art und Weise, dass die Implementierung klar und effizient ablaufen kann.\\
+Sowohl das \textit{Backend}, als auch die Infrastruktur, wurden komplett implementiert. Die Hauptfunktionalität wurde fertig programmiert und in das System und in die Betriebsumgebung eingepasst. Zusätzlich wurde auch die Infrastruktur entworfen und dynamisch \textit{deployable} designt, sodass dieses einfach aufbaubar und steuerbar ist. Die \textit{REST}-Schnittstelle bereitet Daten entsprechend auf und stellt sie auf Anfrage eines \textit{Clients} zur Verfügung. Auch die Schnittstellenherausforderungen im \textit{Backend} mit Diensten und Protokollen wie \textit{LDAP} oder \textit{Untis} wurden gelöst und auf eine Art und Weise, dass die Implementierung klar und effizient ablaufen kann.\\
 
-Jedoch gibt es immer meistens bei Softwareprojekten mit klaren Deadlines immer noch etwas, das noch implementiert, verbessert oder neu entworfen werden kann. So ist es auch hier im Backend und in der Infrastruktur. Aus dieser Erkenntnis heraus wurde eine Liste erstellt, welche weiteren Implementierungen und möglichen Verbesserungen wichtig für das System wären und die Software unterstützen könnten:
+Jedoch gibt es immer meistens bei Softwareprojekten mit klaren \textit{Deadlines} immer noch etwas, das noch implementiert, verbessert oder neu entworfen werden kann. So ist es auch hier im Backend und in der Infrastruktur. Aus dieser Erkenntnis heraus wurde eine Liste erstellt, welche weiteren Implementierungen und möglichen Verbesserungen wichtig für das System wären und die Software unterstützen könnten:
 
 \begin{itemize}
 	\item Versenden von Mails (bei Statusänderungen oder als Erinnerungen)
-	\item Ein umfangreichendes Logging-System, um jegliche Aktionen aufzeichnen zu können
+	\item Ein umfangreichendes \textit{Logging}-System, um jegliche Aktionen aufzeichnen zu können
 	\item Ein einfacheres Design des Datenmodells entwerfen
 	\item PDF-Vorlagen besser und übersichtlicher designen
-	\item Die REST-Schnittstelle mit weiteren Steuerungsmöglichkeiten und kleineren Endpoints zur Zustandsänderung ausstatten, wodurch große Endpoints (wie beispielsweise jener um Anträge zu bearbeiten) obsolet werden würden und die Endpointstruktur klarer und übersichtlicher werden würde.
-	\item modulare Wahl zwischen Datenbanken inklusive Datenbankschnittstelle über Strategy-Pattern implementieren, und über Nutzerkonfiguration bei der Installation Entscheidung ermöglichen.
-	\item Grenzwertüberprüfungen im Backend einbauen, sodass nur letztlich valide Werte genutzt werden können
-	\item Reduzierung der McCabe-Metrik (zyklomatische Komplexität)
-	\item Generelle Performance Verbesserungen
-	\item Weitere Sicherheitsmaßnahmen entwerfen und implementieren (beispielsweise HTTPS Implementierung für Webserver und REST-Schnittstelle)
+	\item Die \textit{REST}-Schnittstelle mit weiteren Steuerungsmöglichkeiten und kleineren \textit{Endpoints} zur Zustandsänderung ausstatten, wodurch große \textit{Endpoints} (wie beispielsweise jener um Anträge zu bearbeiten) obsolet werden würden und die \textit{Endpointstruktur} klarer und übersichtlicher werden würde.
+	\item modulare Wahl zwischen Datenbanken inklusive Datenbankschnittstelle über \textit{Strategy-Pattern} implementieren, und über Nutzerkonfiguration bei der Installation Entscheidung ermöglichen.
+	\item Grenzwertüberprüfungen im \textit{Backend} einbauen, sodass nur letztlich valide Werte genutzt werden können
+	\item Reduzierung der \textit{McCabe-Metrik} (zyklomatische Komplexität)
+	\item Generelle \textit{Performance} Verbesserungen
+	\item Weitere Sicherheitsmaßnahmen entwerfen und implementieren (beispielsweise HTTPS Implementierung für \textit{Webserver} und \textit{REST}-Schnittstelle)
 \end{itemize}
 \captionof{listing}[Auflistung von weiteren Ideen]{Auflistungen von Ideen zur weiteren Implementierung und Verbesserung}
 \newpage

diff --git a/chapters/danksagung.tex b/chapters/danksagung.tex
@@ -1,10 +1,10 @@
 %!TEX root=../main.tex
 \chapter{Danksagung} 
-Der fünfte Jahrgang, der Maturajahrgang, ist keine einfache Zeit. Er ist für uns Schüler voller Herausforderungen. Seien es die beiden normalen Semester, die es zu absolvieren gilt, die Diplomarbeit oder die Vorbereitung auf die Matura. Danach gilt es bei der Matura selbst noch einmal Alles zu geben und das unter Beweis zu stellen, was man während der mindestens 13 Jahre langen Schullaufbahn erlernt und geübt hat. Zusätzlich zu diesen Herausforderungen erschwert die Coronavirus-Pandemie dieses Jahr den schulischen Alltag massiv. Gerade deswegen wollen wir hiermit jenen ausdrücklich von Herzen danken, die uns in dieser schwierigen Zeit geholfen haben und zur Seite gestanden sind.\\
-
+Der fünfte Jahrgang, der Maturajahrgang, ist keine einfache Zeit. Er ist für uns Schüler voller Herausforderungen. Seien es die beiden normalen Semester, die es zu absolvieren gilt, die Diplomarbeit oder die Vorbereitung auf die Matura. Danach gilt es bei der Matura selbst noch einmal Alles zu geben und das unter Beweis zu stellen, was man während der mindestens 13 Jahre langen Schullaufbahn erlernt und geübt hat. Zusätzlich zu diesen Herausforderungen erschwert die Coronavirus-Pandemie dieses Jahr den schulischen Alltag massiv. Gerade deswegen wollen wir hiermit jenen ausdrücklich von Herzen danken, die uns in dieser schwierigen Zeit geholfen haben und zur Seite gestanden sind.\\ 
+~\\
 Zuerst wollen wir uns bei unserem Diplomarbeitsbetreuer Herrn Professor Zakall und unserem Betreuer aus dem ITP-Unterricht Herrn Professor Dolezal dafür bedanken, dass sie jederzeit ein offenes Ohr für unsere Probleme hatten und uns immer mit Rat und Hilfe bei der Lösung unserer Probleme beigestanden sind. Des Weiteren wollen wir Herrn Professor Borko für die Organisation des Diplomarbeitsseminars und für die immer klaren Antworten auf all unserer unzähligen Fragen bedanken.\\
-
+~\\
 Dieser Maturajahrgang war auf Grund der andauernden Pandemie wahrscheinlich einer der Schwierigsten und Aufwendigsten der letzten Jahre. Von Lockdown zu Lockdown wurden soziale Kontakte eingeschränkt, sodass wir mit Freunden und Klassenkollegen nur online reden konnten. Aus unserer Situation heraus wollen wir auch unseren Freunden in der Klasse danken, die uns durch diese schwere Zeit geholfen haben. Wir wollen hier speziell Maximilian Frühmann für die vielen Ratschläge, die er uns gegeben hat, und für das offene Ohr bei etwaigen Probleme danken. Ein weiterer Dank gilt unseren restlichen Freunden, die uns jederzeit aufgemuntert und unterstützt haben. Besonders hierbei ist uns aufgefallen, dass wir Freunde haben, die sich andere nur wünschen können.\\
-
+~\\
 Zuletzt wollen wir auch unseren Familien danken, die in diesen turbulenten Zeiten immer für uns da waren und an unserer Seite standen. Wir glauben, dass wir aus der Pandemie mit neuen Fähigkeiten herausgehen werden, und dies nur auf Grund jener Förderung im Leben, die wir von unseren Familien erhalten haben. 
 Speziell jenen, die unseren Abschluss leider nicht mehr miterleben können, wollen wir von ganzem Herzen für die unendliche Inspiration danken. Wenn wir eines mit Sicherheit wissen, dann, dass ihr immer stolz auf uns wart und das auch immer sein werdet.

diff --git a/chapters/projektmanagement.tex b/chapters/projektmanagement.tex
@@ -36,7 +36,7 @@ In agilen Methoden steht vor allem das Projekt im Vordergrund, nicht die Dokumen
 Scrum ist ein empirisches Vorgehen, das in sogenannte \textit{Sprints} (ein zeitlich begrenztes Event) eingeteilt ist \cite{pm-agil-ursula}. Ein \textit{Sprint}, besteht aus dem \textit{Sprint Planning}, in dem der kommende, maximal vier wöchige \textit{Sprint}, geplant und durchgesprochen wird. Genauergesagt werden Aufgaben, von dem \textit{Project Backlog} (Der Wunschliste, des Kunden), in den \textit{Sprint Backlog} (die Aufgaben, die das \textit{Development Team} in einem Sprint durchführen wird) verschoben. Jeden Tag im \textit{Sprint} gibt es einen \textit{Daily Scrum}, in dem ein 15 minütiges \textit{Standupmeeting} stattfindet. Dieser Ablauf ist grafisch in \autoref{fig:scrum} dargestellt.
 \begin{figure}[H]
 	\centering
-	\includegraphics[width=0.8\linewidth]{images/projektmanagement/scrum2}
+	\includegraphics[width=0.6\linewidth]{images/projektmanagement/scrum2}
 	\caption[Scrum]{Illustration Scrum \cite{pm-agil-ursula}}
 	\label{fig:scrum}
 \end{figure}
@@ -52,7 +52,7 @@ Das \textit{Development Team} setzt die \textit{Tasks} selbstständig um und ers
 In \textit{Kanban} gibt es keine bestimmten Rollen, wie in \textit{Scrum}, die den Projektmitglieder zugewiesen werden \cite{pm-agil-ursula}. Es gibt lediglich ein \textit{Kanban-Board}, welches einen strukturierten Aufbau, von Links nach Rechts beinhaltet. Alle Aufgaben, aus den \textit{Backlog} werden als sogenannte \textit{To do's} ganz Links anzeigt. Desweiteren gibt es eine Spalte, in der die Aufgaben gesammelt werden, die als Nächstes behandelt werden. Dieses Verfahren wird, bis zu der Spalte fortgeführt, in der die fertigen \textit{To Do's} gesammelt werden. Siehe \autoref{fig:kanban} zur Veranschaulichung des \textit{Kanban-Boards}. 
 \begin{figure}[H]
 	\centering
-	\includegraphics[width=0.8\linewidth]{images/projektmanagement/kanban}
+	\includegraphics[width=0.6\linewidth]{images/projektmanagement/kanban}
 	\caption[Kanban]{Illustration Kanban \cite{pm-agil-ursula}}
 	\label{fig:kanban}
 \end{figure}

diff --git a/chapters/conclusio.tex b/chapters/conclusio.tex
@@ -1,3 +1,3 @@
 %!TEX root=../main.tex
 \chapter{Conclusio}
-Das Diplomprojekt \textit{Refundable} hat das gesamte Team vor viele technische Herausforderungen gestellt. Trotzdem wurden, während des Projekts, viele Erfahrungen in Verbindung mit Webdesign, Datenschnittstellen und (Michi dein Zeugs) gesammelt. Durch intensive Auseinandersetzung mit den Themenbereichen konnten jedoch einige neuen Fähigkeiten erlernt und angewandt werden. Die Eigenschaft des Diplomprojektes, eine völlig neue, maßgeschneiderte Software zu entwickeln, zog unzählige Umsetzungsmöglichkeiten in Betracht. Die durchgeführte Studie im Diplomprojekt war deswegen essenziell, um eine konkrete Umsetzungsmöglichkeit zu finden. Das gesamte Team freut sich, die einzigartige Möglichkeit gehabt zu haben, das Diplomprojekt \textit{Refundable} umzusetzen.
+Das Diplomprojekt \textit{Refundable} hat das gesamte Team vor viele technische Herausforderungen gestellt. Trotzdem wurden, während des Projekts, viele Erfahrungen in Verbindung mit Webdesign, Datenschnittstellen, Schnittstellenentwicklung und Systemintegration gesammelt. Durch intensive Auseinandersetzung mit den Themenbereichen konnten einige neuen Fähigkeiten erlernt und angewandt werden. Die Eigenschaft des Diplomprojektes, eine völlig neue, maßgeschneiderte Software zu entwickeln, zog unzählige Umsetzungsmöglichkeiten in Betracht. Die durchgeführte Studie im Diplomprojekt war deswegen essenziell, um eine konkrete Umsetzungsmöglichkeit zu finden. Auch in sozialer Hinsicht haben die Teammitglieder einiges dazugelernt. Nicht immer ist alles rund gelaufen, jedoch hat das Team gelernt, produktiver zu arbeiten und sich zusammenzureißen, falls mal etwas nicht so geklappt hat, wie es ursprünglich geplant war.\\Das gesamte Team freut sich, die einzigartige Möglichkeit gehabt zu haben, das Diplomprojekt \textit{Refundable} umzusetzen.

diff --git a/chapters/vorwort.tex b/chapters/vorwort.tex
@@ -1,2 +1,7 @@
 %!TEX root=../main.tex
 \chapter{Vorwort}
+Dies ist die Diplomarbeit \textit{Refundable - effiziente Reise- und Exkursionsverwaltung} und wurde im Rahmen einer Abschlussarbeit, an einer höheren technischen Lehranstalt, dem TGM durchgeführt. Die Arbeit wurde von drei Personen verfasst und ist daher auch in verschiedene Unterabschnitte aufgeteilt. Die verschiedenen Themenbereiche sind das Erstellen, der responsiven Webapplikation, der \textit{REST}-Schnittstelle, als auch Infrastruktur und er Schnittstelle, zwischen Frontend und Backend.\\
+~\\
+Das Ziel dieser Diplomarbeit, welche dem Projektteam von Ihrem Betreuer Steafan Zakall vorgeschlagen wurde, war es, sämtliche Anträge, welche Intern, in der höhreren technischen Lehranstalt, dem TGM gestellt werden, zu digitalisieren und so gut es geht, durch technische Unterstützung zu automatisieren.\\
+~\\
+Das Projektteam von \textit{Refundable} wünscht Ihnen viel Freude, beim Lesen dieser Arbeit.

diff --git a/chapters/einleitung.tex b/chapters/einleitung.tex
@@ -1,2 +1,7 @@
 %!TEX root=../main.tex
 \chapter{Einleitung} 
+Ob Reiseantrag, Pflegefreistellung, oder Fortbildungsantrag - die Lehrer des TGMs werden stets mit viel administrativem Aufwand belastet. 
+~\\
+Im Rahmen dieses Projektes, wird versucht dieses Problem zu lösen und den Lehrern einen großen Teil der Bürokratie abzunehmen.
+~\\
+In dieser Arbeit wird untersucht, mit welchen Methoden, das Projekt \textit{Refundable}, am besten und effektivsten durchgeführt werden kann.
